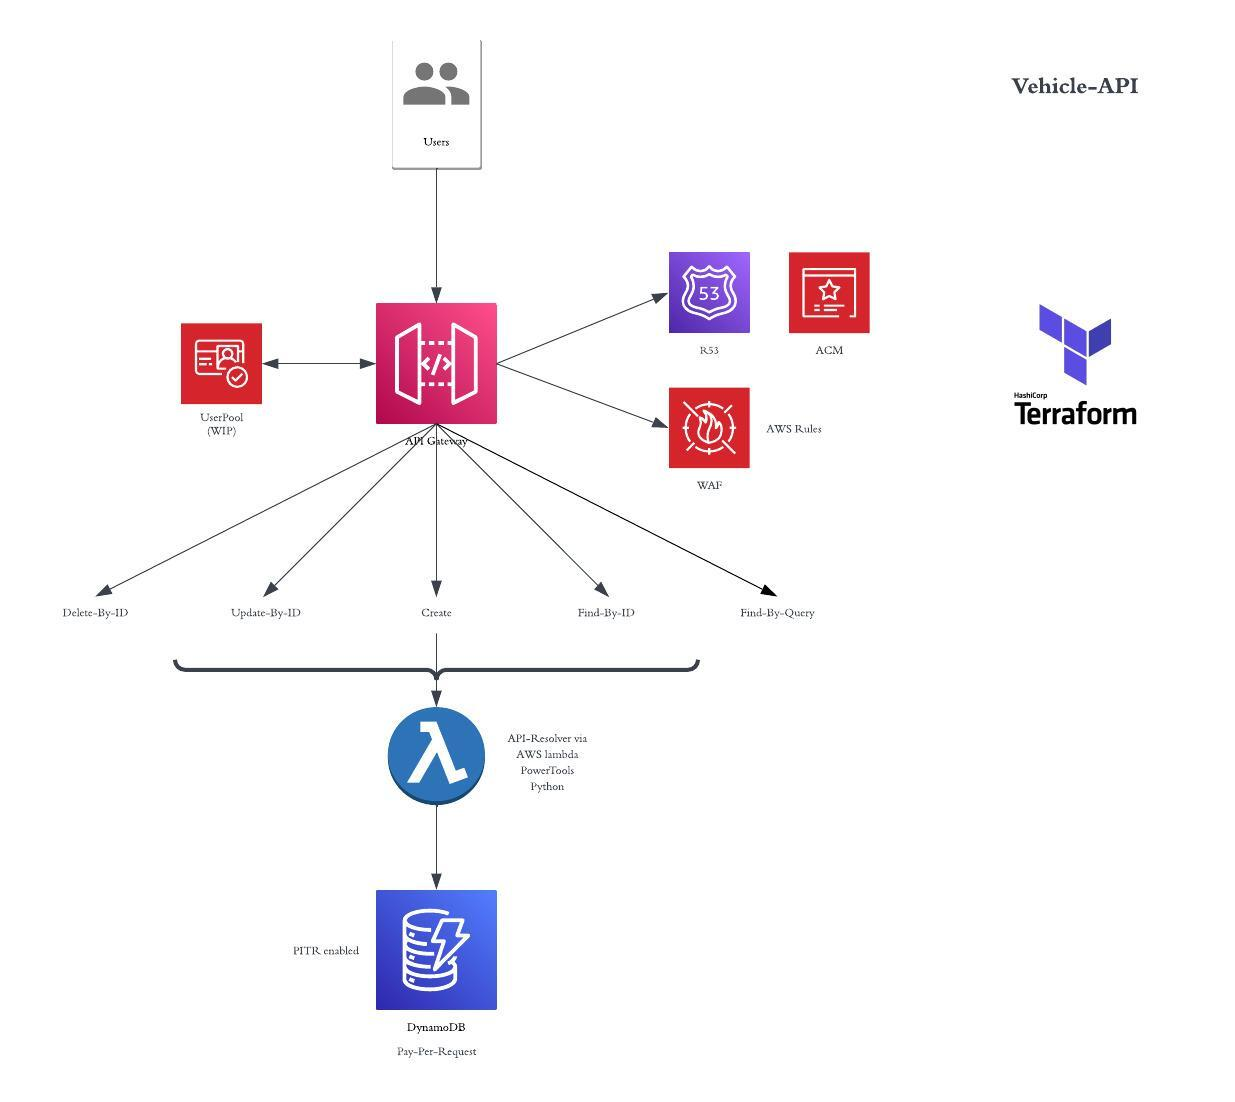
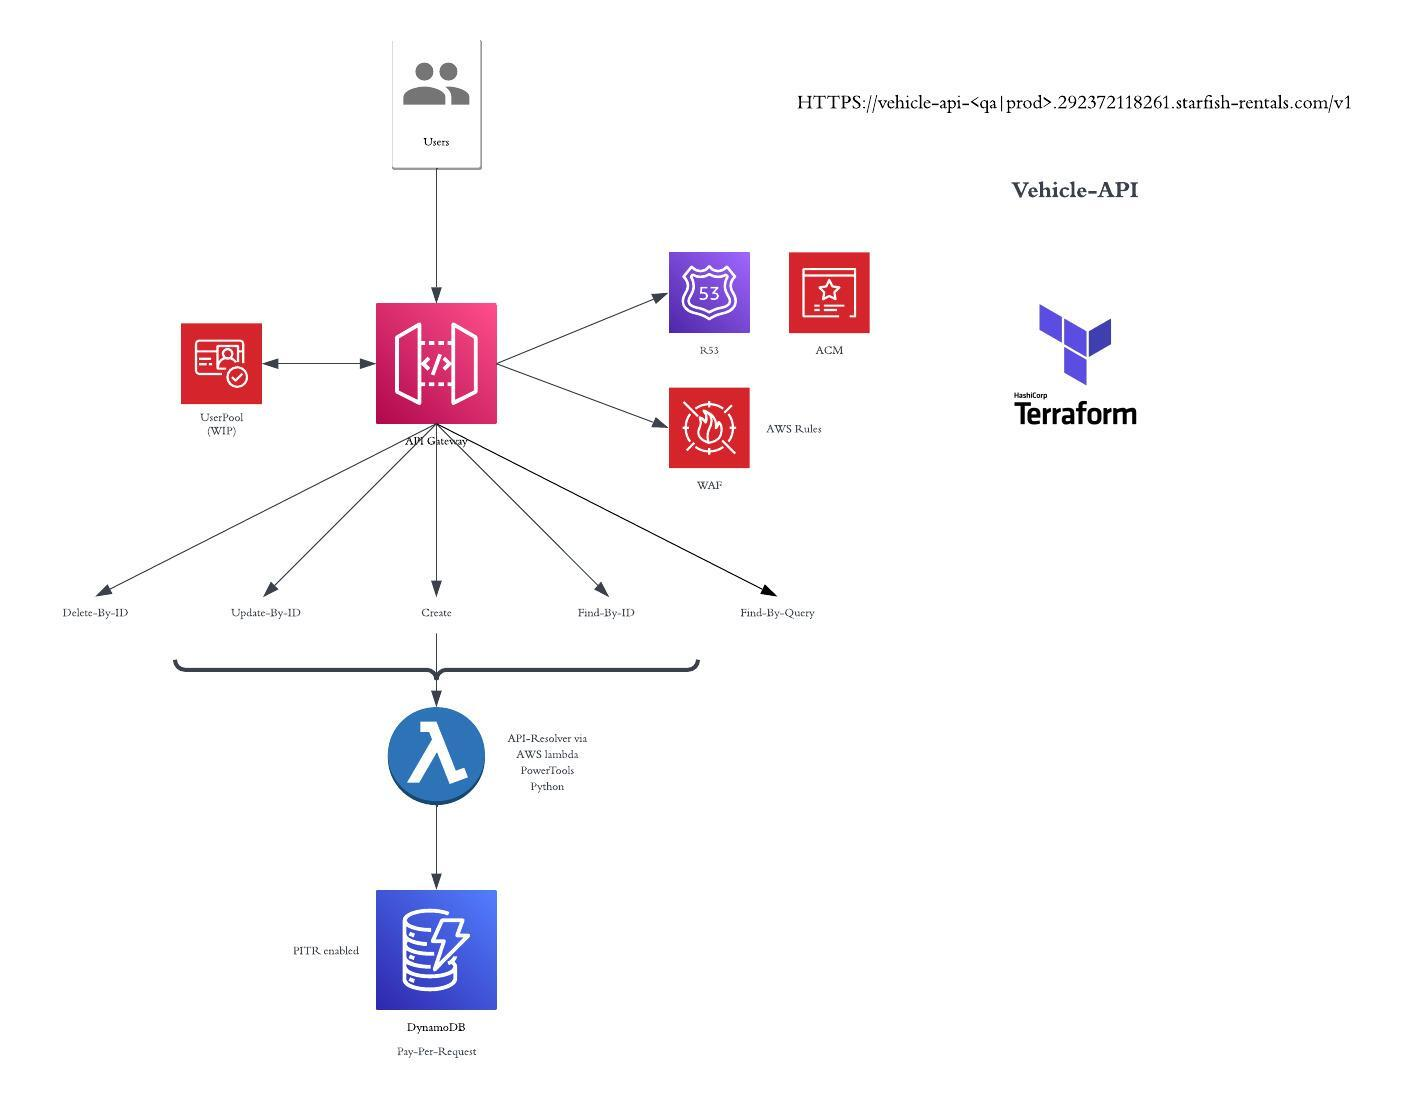
minor fixes

diff --git a/README.md b/README.md
@@ -1,6 +1,10 @@
 # Vehicle-API
 
-## Overview
+## Introduction
+
+This Repository serves as a REST-driven Serverless-Blueprint on AWS.
+
+## Architecture
 
 <!-- ![.](./docs/overview.jpg) -->
 <img src="./docs/overview.jpg" width="750" height="650">
@@ -11,6 +15,103 @@
 - Python3.9
 - Poetry
 
+## OpenAPI Spec
+
+An always up-to-date Version of this API can be found [here](./openapi.yml).
+
+This is your Source of Truth of this API as it is also used within Terraform where we define/deploy our API-Gateway.
+It defines all our:
+- Endpoints (Create, Update, Delete, Find-By-ID, ...)
+  - With a Version-Prefix: v1 (for now)
+- In- and Outputs
+
+## Infra
+
+### Terraform
+
+All required AWS Resources of this API were defined in a separate [Terraform Module](https://github.com/dschro-1993/vehicle-api-terraform-module).
+
+(Git Tagging is used)
+
+Just to be able to reuse them for Deployments on:
+```
+- feature branch -> qa
+- main    branch -> prod
+```
+
+### API Gateway
+
+The API Gateway itself is defined/deployed based on our OpenAPI-Spec.
+
+#### R53
+
+A Custom Domain (in a Public-Hosted Zone) was created to be able to fetch/query Vehicles on a fixed/static Domain.
+
+Additional Domain-Mappinq was created on our API-Gateway to make this API available via:
+
+```
+- qa   -> vehicle-api-qa  .292372118261.starfish-rentals.com/v1
+- prod -> vehicle-api-prod.292372118261.starfish-rentals.com/v1
+```
+
+#### ACM
+
+A custom TLS-Certificate for this Custom Domain was created via ACM.
+(DNS-based Validation)
+
+#### WAF
+
+A WAF (Web Application Firewall) was created which contains a [RateBased-Rule/-Blocker](https://aws.amazon.com/blogs/security/three-most-important-aws-waf-rate-based-rules/) + few AWS Manaqed Rules/Recommendations (specifically for Web-Apps).
+
+### DynamoDB
+
+For Billinq-Mode "Pay-Per-Request" was enabled to scale On-Demand. (As we don't know any exact Traffic-Patterns yet).
+
+On prod, PITR (Point-In-Time Recovery) was enabled to rollback data in case it will be corrupted, i.e. by test-scripts.
+
+### lambda
+
+The API is 100% serverless-based and served by the λ-Service, and so is very cost-effective.
+
+## Application Overview
+
+The Application heavily uses the [AWS lambda PowerTools for Python](https://awslabs.github.io/aws-lambda-powertools-python/2.10.0/) (Introduced at [AWS re:Invent 2022](https://portal.awsevents.com/events/reInvent2022/sessions/opn306)).
+
+This way we avoid lots of DRY-Code and have access to lots of additional/helpful Utilities such as: tracer, loqqer, custom-metrics, ...
+
+The Application is structured as follows:
+```
+vehicle_api:
+- api-resolver.py # Main Router/Controller for all HTTP-/REST-Endpoints
+- mapper.py       # Mapper between Entities/DTOs and vice versa
+- models.py       # Models -> all Input-/Output-Objects for API
+- dynamo.py       # Repository/Persistence-layer
+```
+
+Every Endpoint is served by one main λ-Function. This has a few benefits:
+
+- Complexity of API is very low (Compared to: Bundle/Deploy and Maintain one Function per Endpoint)
+- Chance of a cold start is heavily reduced
+
+### Dependencies
+
+The Application uses the followinq Dependencies at Runtime:
+
+```
+- aws-lambda-powertools (Contains Pydantic for Validation already)
+- boto3
+```
+
+#### λ-Layers
+
+We don't need to bundle those Dependencies ourselves. There are already official λ-layers out there:
+
+(boto3 excluded: Already available in λ-Service)
+
+```
+- arn:aws:lambda:<REGION>:017000801446:layer:AWSLambdaPowertoolsPythonV2-Arm64:<VERSION>
+```
+
 ## Installation
 
 ```
@@ -20,7 +121,7 @@ poetry install
 ## Pylint
 
 ```
-pylint vehicle_api/
+On Poetry -> pylint vehicle_api/
 ```
 
 ## Pytest
@@ -28,7 +129,7 @@ pylint vehicle_api/
 ### Unit
 
 ```
-poetry run pytest tests/unit
+On Poetry -> poetry run pytest tests/unit
 ```
 
 ### Intr
@@ -39,7 +140,7 @@ docker run -d -p 8000:8000 amazon/dynamodb-local
 ```
 
 ```
-poetry run pytest tests/intr
+On Poetry -> poetry run pytest tests/intr
 ```
 
 ## Deployment
@@ -47,6 +148,10 @@ poetry run pytest tests/intr
 Have a look at the Workflow.
 
 ## Smoke-Test
+
+...
+
+## CICD-Pipeline
 
 ...
 
